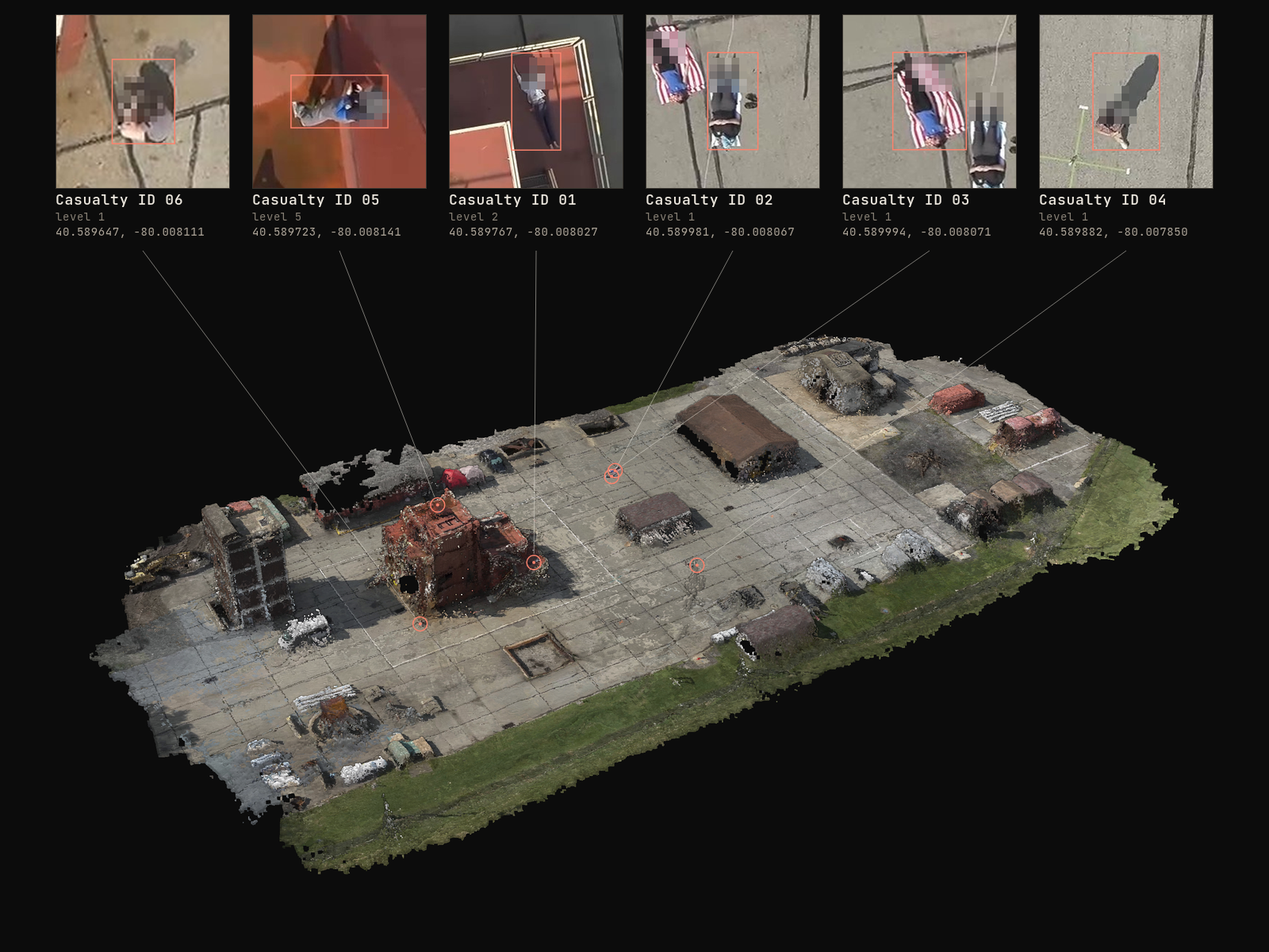
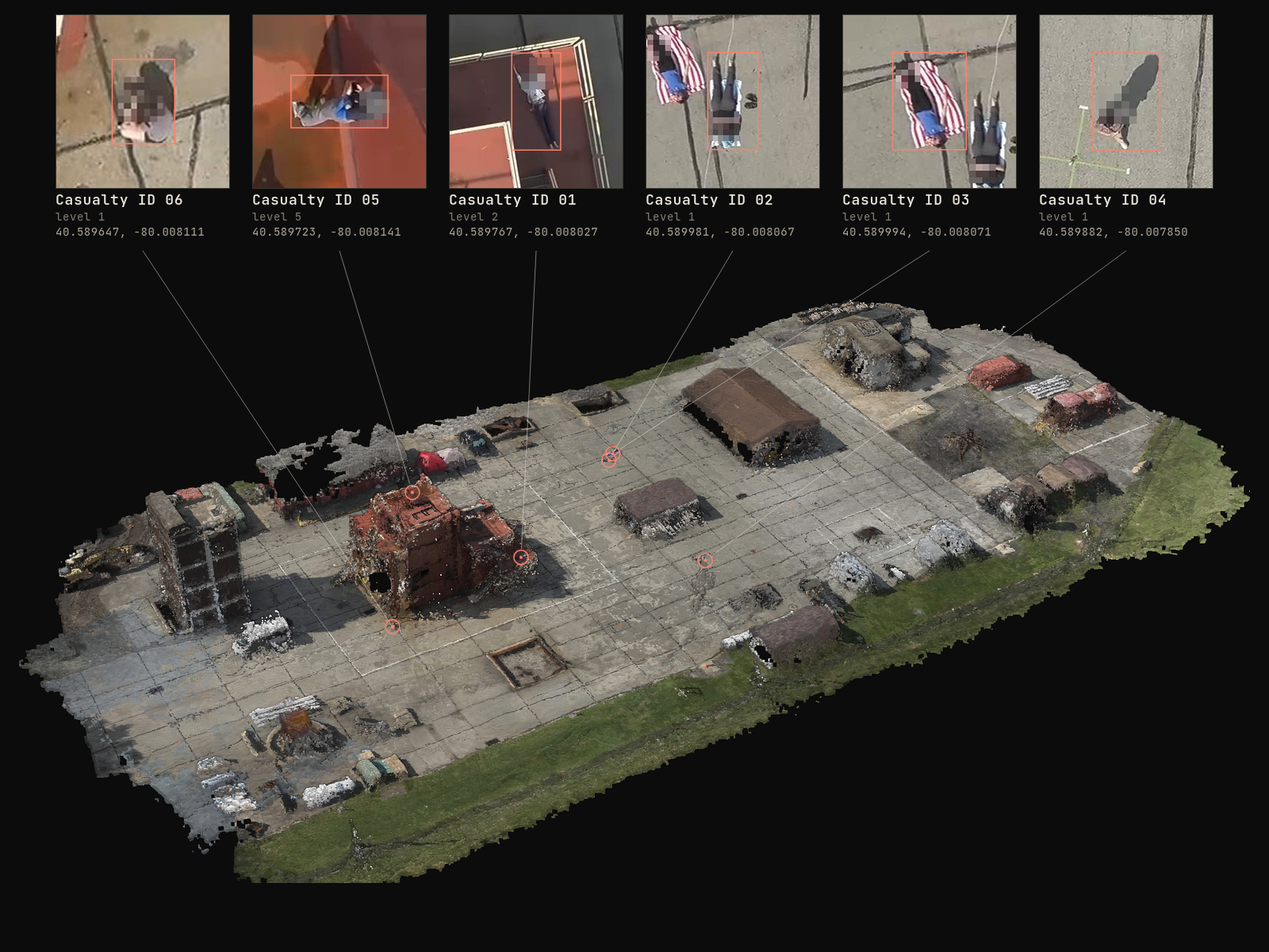
Rewrite the introduction, add the side menu, and add the night ACFA map
Rename Research/Work to Introduction/Projects, add a fixed side menu that marks
the current section, restyle section headings and captions, and update the
ACFA day map alongside a new night (IR) map.

diff --git a/index.html b/index.html
@@ -4,7 +4,7 @@
   <meta charset="utf-8">
   <meta name="viewport" content="width=device-width, initial-scale=1">
   <title>Joon Kwon</title>
-  <meta name="description" content="Joon Kwon — robotics and computer vision researcher at Carnegie Mellon University (AirLab). Dense correspondence and geometric foundation models across RGB, event, thermal, depth and LiDAR.">
+  <meta name="description" content="Joon Kwon, robotics and computer vision researcher at Carnegie Mellon University (AirLab). Dense correspondence and geometric foundation models across RGB, event, thermal, depth and LiDAR.">
   <meta property="og:title" content="Joon Kwon">
   <meta property="og:description" content="Dense correspondence and geometric foundation models that survive the sensor: event, thermal, depth and LiDAR.">
   <meta property="og:image" content="https://hjoonkwon.github.io/figures/tartanmatch-mosaic.jpg">
@@ -14,7 +14,7 @@
   <link rel="preconnect" href="https://fonts.googleapis.com">
   <link rel="preconnect" href="https://fonts.gstatic.com" crossorigin>
   <link href="https://fonts.googleapis.com/css2?family=JetBrains+Mono:wght@400;500&family=Newsreader:ital,opsz,wght@0,6..72,300..600;1,6..72,300..600&display=swap" rel="stylesheet">
-  <link rel="stylesheet" href="styles.css">
+  <link rel="stylesheet" href="styles.css?v=20260929">
 </head>
 <body>
 <div class="page">
@@ -22,14 +22,23 @@
   <header class="site-header">
     <a class="name" href="#research">Joon Kwon</a>
     <nav class="site-nav" aria-label="Sections">
-      <a href="#research"><span class="n">01</span> <span class="label">Research</span></a>
+      <a href="#research"><span class="n">01</span> <span class="label">Introduction</span></a>
       <a href="#papers"><span class="n">02</span> <span class="label">Papers</span></a>
-      <a href="#work"><span class="n">03</span> <span class="label">Work</span></a>
+      <a href="#work"><span class="n">03</span> <span class="label">Projects</span></a>
       <a href="#patents"><span class="n">04</span> <span class="label">Patents</span></a>
       <a href="#cv"><span class="n">05</span> <span class="label">CV</span></a>
       <button class="theme-toggle" id="theme-toggle" type="button">Dark</button>
     </nav>
   </header>
+
+  <nav class="side-nav" aria-label="Jump to section">
+    <a href="#research"><span class="n">01</span><span class="label">Introduction</span></a>
+    <a href="#papers"><span class="n">02</span><span class="label">Papers</span></a>
+    <a href="#work"><span class="n">03</span><span class="label">Projects</span></a>
+    <a href="#patents"><span class="n">04</span><span class="label">Patents</span></a>
+    <a href="#cv"><span class="n">05</span><span class="label">Experience</span></a>
+    <a href="#education"><span class="n">06</span><span class="label">Education</span></a>
+  </nav>
 
   <main>
 
@@ -37,9 +46,9 @@
     <div class="hero-text">
       <h1>Joon Kwon</h1>
       <div class="sub">M.S. Robotics, Carnegie Mellon University · AirLab.</div>
-      <p>I work on giving machines a sense of space that survives the sensor. My research extends dense correspondence and geometric foundation models past RGB — into event, thermal and LiDAR — so perception degrades gracefully where robots are actually needed: at night, in smoke, in the field.</p>
-      <p class="mut">Before CMU I was at Boeing AI, supervised by <a href="https://www.linkedin.com/in/junghyun-oh-6428293b/" target="_blank" rel="noopener">Jay Oh</a>, using CV/ML to improve airplane manufacturing quality at the factory; at Nearthlab, under CTO <a href="https://www.linkedin.com/in/yschung/" target="_blank" rel="noopener">Youngsuk Chung</a>, carrying drone-perception PoCs into shipped products; and at KAIST, advised by <a href="https://pure.kaist.ac.kr/en/persons/hyochoong-bang/" target="_blank" rel="noopener">Prof. Hyochoong Bang</a>, on reinforcement learning for spacecraft guidance.</p>
-      <p class="mut">For a Ph.D. I want to push toward spatial representations learned once and held across modality, time and viewpoint — and to keep validating them on real hardware, the way I have for the last five years.</p>
+      <p>Robots today can recognize almost anything they see, yet they rarely understand how the world will physically respond when they act in it. I want to close that gap, so that robots can take on physical work in the real world, not only in controlled demonstrations. For my Ph.D., I want to build multimodal representations that drive a robot's actions end to end. They should remain inspectable, yielding explicit, measurable estimates of not only the world's geometry but also its physical behavior, such as how heavy an object is or whether the ground will hold. They should also carry their own uncertainty: as the robot acts, the surprise between what it predicted and what it measures updates the representation and corrects the action. Disaster response is the hardest test of this idea: a robot must act correctly the first time, without the chance to probe first.</p>
+      <p class="mut">I am an M.S. Robotics student in CMU's AirLab, advised by <a href="https://www.ri.cmu.edu/ri-faculty/sebastian-scherer/" target="_blank" rel="noopener">Prof. Sebastian Scherer</a> and <a href="http://www.wangwenshan.com/" target="_blank" rel="noopener">Dr. Wenshan Wang</a>. Before CMU I was at Boeing AI, supervised by <a href="https://www.linkedin.com/in/junghyun-oh-6428293b/" target="_blank" rel="noopener">Jay Oh</a>, using CV/ML to improve airplane manufacturing quality at the factory, and at Nearthlab, under CTO <a href="https://www.linkedin.com/in/yschung/" target="_blank" rel="noopener">Youngsuk Chung</a>, carrying drone-perception PoCs into shipped products.</p>
+      <p class="mut">My recent work, TartanMatch, extends dense correspondence beyond RGB to thermal, event camera, and LiDAR modalities, so a robot can still see and localize when an RGB camera cannot. That need came directly from the <a href="https://www.darpa.mil/research/challenges/darpa-triage-challenge/finals" target="_blank" rel="noopener">DARPA Triage Challenge</a>, where I led the development of the monocular 3D mapping and target localization system that reports each casualty's GPS position to first responders from both EO and IR imagery, with under 50 cm error.</p>
       <div class="links">
         <a href="mailto:joonk2@andrew.cmu.edu">joonk2@andrew.cmu.edu</a>
         <a href="https://scholar.google.com/citations?user=zbJI0jcAAAAJ&amp;hl=en" target="_blank" rel="noopener">Scholar</a>
@@ -67,15 +76,19 @@
             <source src="figures/tartanmatch-mosaic.mp4" type="video/mp4">
             <img src="figures/tartanmatch-mosaic.jpg" alt="Six cross-sensor warps, each source landing aligned on its target view">
           </video>
-          <figcaption>Six cross-sensor pairs — thermal, event, depth and sparse depth onto RGB, night onto day — each source warped into the target view by predicted correspondence, one model for all.</figcaption>
+          <figcaption>Six cross-sensor pairs (thermal, event, depth and sparse depth onto RGB, night onto day), each source warped into the target view by predicted correspondence, one model for all.</figcaption>
         </figure>
         <div class="pub-body">
           <div class="pub-title">
             <h3>TartanMatch: Towards Universal Dense Correspondence Across Modalities</h3>
             <span class="pill">Submitted to IEEE RA-L</span>
           </div>
-          <div class="cite"><strong>H. Kwon</strong>*, J. Cai*, R. Li*, K. Bhandari, G. Hemkumar, P. Maheshwari, Y. Qiu, Y. Zhang, S. Scherer, W. Wang — submitted to IEEE Robotics and Automation Letters, 2026. *Equal contribution.</div>
-          <p>Carrying universal RGB flow models into any-pair matching — every same-modal and cross-modal combination across five modalities — trained on pixel-aligned simulated and real data curated for scale.</p>
+          <div class="cite"><strong>H. Kwon</strong>*, J. Cai*, R. Li*, K. Bhandari, G. Hemkumar, P. Maheshwari, Y. Qiu, Y. Zhang, S. Scherer, W. Wang. Submitted to IEEE Robotics and Automation Letters, 2026. *Equal contribution.</div>
+          <p>Robots combine several sensors to work across conditions, but most dense-correspondence methods handle only RGB-to-RGB or a few modality pairs, and training one model per pair scales poorly and forgoes transfer between pairs. TartanMatch is one model for all 25 ordered pairs among RGB, event, thermal, depth and projected LiDAR: an RGB-pretrained correspondence model adapted to every pair inside a single shared network with lightweight modality adaptation and a mix of real and synthetic data.</p>
+          <ul>
+            <li>Zero-shot on real-world benchmarks, it cuts endpoint error against the strongest baselines by 61.9% for cross-modal and 49.6% for same-modal matching.</li>
+            <li>Joint training across all pairs beats pair-specific training, most of all on the hard cross-modal pairs: one model, broad coverage, state-of-the-art accuracy.</li>
+          </ul>
         </div>
       </article>
 
@@ -91,8 +104,8 @@
           <div class="pub-title">
             <h3>Autonomous Guidance for Multi-revolution Low-thrust Orbit Transfer via Reinforcement Learning</h3>
           </div>
-          <div class="cite"><strong>H. Kwon</strong>, S. Oghim, H. Bang — 31st AAS/AIAA Space Flight Mechanics Meeting, 2021. AAS 21-315 · Advances in the Astronautical Sciences, vol. 176, pp. 783–798.</div>
-          <p>A Soft Actor-Critic agent chooses thrust direction across an entire multi-revolution transfer at constant thrust magnitude, meeting the terminal boundary condition while minimising flight time — with a gradient-form reward that makes the long-horizon problem trainable.</p>
+          <div class="cite"><strong>H. Kwon</strong>, S. Oghim, H. Bang. 31st AAS/AIAA Space Flight Mechanics Meeting, 2021. AAS 21-315 · Advances in the Astronautical Sciences, vol. 176, pp. 783–798.</div>
+          <p>A Soft Actor-Critic agent chooses thrust direction across an entire multi-revolution transfer at constant thrust magnitude, meeting the terminal boundary condition while minimising flight time, with a gradient-form reward that makes the long-horizon problem tractable.</p>
           <!-- PDF link pending a URL: <div class="textlink"><a href="">PDF</a></div> -->
         </div>
       </article>
@@ -103,20 +116,33 @@
   <div class="rule"></div>
 
   <section class="work" id="work">
-    <h2 class="section-label"><span class="n">03</span><span>Selected work</span></h2>
+    <h2 class="section-label"><span class="n">03</span><span>Projects</span></h2>
 
     <div class="work-feature">
       <div class="work-text">
-        <div class="eyebrow">2025 — present · DARPA Triage</div>
+        <div class="eyebrow">2025 – present · DARPA Triage</div>
         <h3>Target Re-ID &amp; Localization for Search and Rescue</h3>
-        <p>An end-to-end system that detects, localizes and re-identifies casualties for first responders, combining feedforward geometric transformers (VGGT, MapAnything, DepthAnything) with contrastive features that stay distinguishable across viewpoint and time.</p>
+        <p>An end-to-end system that detects, localizes and re-identifies casualties for first responders.</p>
+        <ul>
+          <li>Real-time 3D mapping and localization: monocular SLAM fused with GPS through pose-graph optimization.</li>
+          <li>Every casualty reported live in GPS coordinates (latitude, longitude, height), with the camera frame it was detected in.</li>
+          <li>Each reported location must fall within 2 m of the casualty's surveyed GPS position.</li>
+          <li>Duplicate reports of the same casualty are penalized heavily, so re-identification has to hold for static and moving targets alike.</li>
+        </ul>
       </div>
       <figure class="figure">
         <picture>
           <source srcset="figures/acfa-map.webp" type="image/webp">
           <img class="fig-map" src="figures/acfa-map.png" alt="Oblique 3D map of the ACFA training site built in real time from one flight, with six casualty positions marked and the detector's camera frame for each shown above" width="1600" height="1200">
         </picture>
-        <figcaption>One EO flight over the ACFA site, mapped in real time from the drone's video stream — 55 M points, 4 cm ground sampling. Six casualties reported live by the pipeline within 0.8 m of their surveyed positions, each with the detector's own frame at the moment of detection.</figcaption>
+        <figcaption>One EO flight over the Allegheny County Fire Academy (ACFA) training site near Pittsburgh, mapped in real time from the drone's video stream: 55 M points, 4 cm ground sampling. Six casualties reported live by the pipeline within 0.8 m of their surveyed positions, each with the detector's own frame at the moment of detection.</figcaption>
+      </figure>
+      <figure class="figure">
+        <picture>
+          <source srcset="figures/acfa-map-night.webp" type="image/webp">
+          <img class="fig-map" src="figures/acfa-map-night.png" alt="Oblique 3D thermal map of the ACFA site built at night from one infrared flight, with eleven casualty positions marked and the detector's thermal frame for each shown above" width="1600" height="1200">
+        </picture>
+        <figcaption>The same Fire Academy site at night, from one thermal flight with no visible light: 80 M points, 5 cm ground sampling, white-hot. Eleven casualties reported live by the pipeline, each with the thermal frame it was detected in.</figcaption>
       </figure>
     </div>
 
@@ -124,14 +150,21 @@
 
     <div class="work-row">
       <div class="work-text">
-        <div class="eyebrow">2021 — 2024 · Nearthlab</div>
-        <h3>Autonomous Wind-Turbine Inspection, End to End</h3>
-        <p>One product, owned across the whole pipeline: autonomous drone flight collecting blade imagery in physically harsh environments; label definition, annotation and data curation; defect detection and classification; and high-resolution stitching — deep feature matching fused with GPS/INS/LiDAR — to localize every defect in 3D. 7× faster inspection, and robots doing dangerous work so people don't have to. Related matching work placed 7th of 642 teams in the CVPR 2022 Image Matching Challenge.</p>
+        <div class="eyebrow">2021 – 2024 · Nearthlab</div>
+        <h3>Autonomous Wind-Turbine Inspection</h3>
+        <p>One product, owned across the whole pipeline, so that robots do the dangerous work instead of people.</p>
+        <ul>
+          <li>Autonomous drone flight collecting blade imagery in physically harsh environments.</li>
+          <li>Label definition, annotation and data curation; defect detection and classification.</li>
+          <li>Coverage check: every part of the blade must be photographed, verified before the drone leaves the turbine.</li>
+          <li>I developed the image-stitching pipeline for the textureless blades, combining GPS, camera geometry and learning-based feature matching, so every defect is localized in 3D on one stitched blade.</li>
+          <li>Inspection 7× faster than rope access, because the drone covers a blade in minutes and the stitched image is reviewed once instead of frame by frame. The matching work behind it placed 7th of 642 teams in the CVPR 2022 Image Matching Challenge and won a gold medal (10th) in the 2023 edition.</li>
+        </ul>
         <div class="textlink"><a href="https://www.youtube.com/watch?v=TfCYO0yT53o" target="_blank" rel="noopener">Watch the product →</a></div>
       </div>
       <figure class="figure">
         <img class="fig-defect" src="figures/blade-defect.png" alt="Surface defect on a wind-turbine blade captured during autonomous inspection" width="571" height="476">
-        <figcaption>A detected surface defect — classified, then localized in 3D on the stitched blade.</figcaption>
+        <figcaption>A detected surface defect, classified and then localized in 3D on the stitched blade.</figcaption>
       </figure>
     </div>
 
@@ -145,17 +178,6 @@
         <span>Mean reprojection error 0.09 m · GSD ≈ 1400 px/m</span>
       </figcaption>
     </figure>
-
-    <div class="work-rule"></div>
-
-    <div class="work-row">
-      <div class="work-text">
-        <div class="eyebrow">2024 — 2025 · Boeing</div>
-        <h3>Recognition at One Million Categories</h3>
-        <p>Metric and representation learning to classify over a million unique aerospace parts, planned for deployment to Boeing Distribution Services — alongside homography-based hole tracking on B-777X wings and anomaly detection for composites and sealant.</p>
-      </div>
-      <div class="placeholder" role="img" aria-label="Figure pending: part retrieval">FIGURE — part retrieval</div>
-    </div>
   </section>
 
   <div class="rule"></div>
@@ -193,19 +215,19 @@
     <div class="rows">
       <div class="row">
         <div class="dates">2024 – 2025</div>
-        <div><h3>Machine Learning Researcher · The Boeing Company</h3><div class="detail">1M-category parts recognition; homography-based wing hole and fastener tracking on B-777X; anomaly detection for composites and sealant at B-787 wing factories.</div></div>
+        <div><h3>Machine Learning Researcher · The Boeing Company</h3><div class="detail"><ul><li>Recognition of over a million aerospace part categories with metric and representation learning.</li><li>Homography-based wing hole and fastener tracking on the B-777X.</li><li>Anomaly detection for composites and sealant at the B-787 wing factories.</li></ul></div></div>
       </div>
       <div class="row">
         <div class="dates">2022 – 2024</div>
-        <div><h3>Machine Learning Engineer · Nearthlab</h3><div class="detail">Owned the inspection product from data to deployment: label definition, annotation and curation; defect detection and classification; 48 MP blade stitching for 3D defect localization; Kubernetes deployment. Also on-device rotated object detection for autonomous flight, and precision seeding from drone imagery to 10 cm.</div></div>
+        <div><h3>Machine Learning Engineer · Nearthlab</h3><div class="detail"><ul><li>Owned the inspection product from data to deployment: label definition, annotation and curation; defect detection and classification; Kubernetes deployment.</li><li>48 MP blade stitching for 3D defect localization.</li><li>On-device rotated object detection for autonomous flight.</li><li>Precision seeding from drone imagery to 10 cm.</li></ul></div></div>
       </div>
       <div class="row">
         <div class="dates">2021 – 2022</div>
-        <div><h3>Aerospace Engineer · Nearthlab</h3><div class="detail">The data-collection end of the same product — flight software for autonomous blade photography in C++; SITL system and 6-DoF simulator on Gazebo/ROS with second-order motor dynamics.</div></div>
+        <div><h3>Aerospace Engineer · Nearthlab</h3><div class="detail"><ul><li>Flight software for autonomous blade photography in C++, the data-collection end of the same product.</li><li>SITL system and 6-DoF simulator on Gazebo/ROS with second-order motor dynamics.</li></ul></div></div>
       </div>
       <div class="row">
         <div class="dates">2019 – 2021</div>
-        <div><h3>Research Assistant · ASCL, KAIST</h3><div class="detail">RL for low-thrust orbit transfer; RANDEV 3U CubeSat link budget and mission definition; GNSS/IMU EKF for wing-mounted radar pose.</div></div>
+        <div><h3>Research Assistant · ASCL, KAIST</h3><div class="detail"><ul><li>Reinforcement learning for low-thrust orbit transfer.</li><li>RANDEV 3U CubeSat link budget and mission definition.</li><li>GNSS/IMU EKF for the pose of a wing-mounted radar.</li></ul></div></div>
       </div>
     </div>
   </section>
@@ -217,11 +239,11 @@
     <div class="rows edu">
       <div class="row">
         <div class="dates">2025 – present</div>
-        <div><h3>M.S. Robotics — Carnegie Mellon University</h3><div class="detail">GPA 4.17/4.0. Advanced Computer Vision, Localization &amp; Mapping, Robot Learning.</div></div>
+        <div><h3>M.S. Robotics, Carnegie Mellon University</h3><div class="detail">GPA 4.17/4.0 · Coursework: Advanced Computer Vision, Localization &amp; Mapping, Robot Learning.</div></div>
       </div>
       <div class="row">
         <div class="dates">– 2021</div>
-        <div><h3>B.S. / M.S. Aerospace Engineering — KAIST</h3><div class="detail">GPA 3.9/4.3. Thesis: low-thrust spacecraft trajectory and guidance law design using reinforcement learning.</div></div>
+        <div><h3>B.S. / M.S. Aerospace Engineering, KAIST</h3><div class="detail">GPA 3.9/4.3. Thesis: low-thrust spacecraft trajectory and guidance law design using reinforcement learning.</div></div>
       </div>
     </div>
   </section>
@@ -229,11 +251,11 @@
   </main>
 
   <footer class="site-footer">
-    <div><span class="n">07</span>&nbsp;&nbsp;Notes — occasional writing on correspondence and spatial AI.<!-- Notes link pending a destination: <a href="">Read →</a> --></div>
+    <div><span class="n">07</span>&nbsp;&nbsp;Notes: occasional writing on correspondence and spatial AI.<!-- Notes link pending a destination: <a href="">Read →</a> --></div>
     <div>© 2026</div>
   </footer>
 
 </div>
-<script src="site.js"></script>
+<script src="site.js?v=20260929"></script>
 </body>
 </html>

diff --git a/styles.css b/styles.css
@@ -54,6 +54,31 @@ a:focus-visible, button:focus-visible { outline: 2px solid var(--acc); outline-o
 }
 .rule { height: 1px; background: var(--rule); margin: 0 var(--gutter); }
 
+/* Side menu: fixed on screen at every desktop width. Numbers only in the page gutter; full labels
+   once the viewport has a free left margin. Hidden on phones (the header menu remains). ------------ */
+nav.side-nav { display: none; }
+@media (min-width: 860px) {
+  nav.side-nav {
+    display: flex; flex-direction: column; gap: 10px;
+    position: fixed; left: 14px; top: 50%; transform: translateY(-50%);
+    z-index: 6; padding-left: 10px; border-left: 1px solid var(--rule);
+    font: 400 11px/1.4 var(--mono); letter-spacing: .08em; text-transform: uppercase;
+  }
+  nav.side-nav a { display: flex; gap: 10px; align-items: baseline; color: var(--fnt); text-decoration: none; padding: 2px 0; transition: color .2s; }
+  nav.side-nav a:hover, nav.side-nav a:focus-visible { color: var(--fg); }
+  nav.side-nav a.current { color: var(--fg); }
+  nav.side-nav a.current .n { color: var(--acc); }
+  nav.side-nav .n { min-width: 1.6em; }
+  nav.side-nav .label { display: none; }
+}
+@media (min-width: 1440px) {
+  nav.side-nav { left: calc((100vw - 1080px) / 2 - 168px); padding-left: 12px; }
+  nav.side-nav .label { display: inline; }
+}
+.pub ul { margin: 6px 0 0; padding-left: 1.15em; font-size: 16px; line-height: 1.6; color: var(--mut); text-wrap: pretty; }
+.pub li { margin: 3px 0; }
+.pub li::marker { color: var(--fnt); }
+
 /* Header ---------------------------------------------------------------- */
 .site-header {
   position: sticky; top: 0; z-index: 5;
@@ -100,17 +125,18 @@ a:focus-visible, button:focus-visible { outline: 2px solid var(--acc); outline-o
 .hero-photo .loc { font: 400 11px/1.5 var(--mono); color: var(--fnt); }
 
 /* Labeled sections ------------------------------------------------------ */
-.section { padding: 60px var(--gutter); display: grid; grid-template-columns: 180px 1fr; gap: 40px; align-items: start; }
+.section { padding: 56px var(--gutter) 60px; display: grid; grid-template-columns: 1fr; gap: 28px; align-items: start; }
 .section-label {
-  display: flex; gap: 14px; margin: 0;
-  font: 500 11px/1 var(--mono); letter-spacing: .16em; text-transform: uppercase; color: var(--fnt);
-  white-space: nowrap;
+  display: flex; gap: 16px; align-items: baseline; margin: 0 0 8px;
+  font: 400 30px/1.15 var(--serif); letter-spacing: -.01em; color: var(--fg);
+  white-space: nowrap; padding-bottom: 14px; border-bottom: 1px solid var(--rule);
 }
+.section-label .n { font: 500 12px/1 var(--mono); letter-spacing: .14em; color: var(--acc); }
 
 /* Figures --------------------------------------------------------------- */
 .figure { display: flex; flex-direction: column; gap: 7px; margin: 0; }
 .figure img, .figure video { width: 100%; height: auto; display: block; border: 1px solid var(--rule); }
-.figure figcaption { font: 400 10px/1.5 var(--mono); letter-spacing: .06em; color: var(--fnt); }
+.figure figcaption { font: 400 13px/1.55 var(--serif); color: var(--fg); text-wrap: pretty; }
 .fig-mosaic { aspect-ratio: 2 / 1; object-fit: cover; background: #fff; }
 .fig-orbit { aspect-ratio: 7 / 5; object-fit: contain; background: #fff; }
 .fig-defect { aspect-ratio: 4 / 3; object-fit: cover; }
@@ -151,6 +177,11 @@ a:focus-visible, button:focus-visible { outline: 2px solid var(--acc); outline-o
 .work-text h3 { margin: 0; font-size: 29px; line-height: 1.18; letter-spacing: -.015em; font-weight: 400; }
 .work-text p { margin: 0; font-size: 17px; line-height: 1.62; color: var(--mut); text-wrap: pretty; }
 .work-rule { height: 1px; background: var(--rule); }
+
+/* lists inside descriptions: bullets where an entry enumerates several things */
+.work-text ul, .row .detail ul { margin: 0; padding-left: 1.15em; font-size: 17px; line-height: 1.55; color: var(--mut); text-wrap: pretty; }
+.work-text li, .row .detail li { margin: 4px 0; }
+.work-text li::marker, .row .detail li::marker { color: var(--fnt); }
 .work-feature { display: flex; flex-direction: column; gap: 28px; }
 .work-feature .work-text { max-width: 40em; }
 .fig-map { aspect-ratio: 4 / 3; object-fit: cover; background: #0c0c0c; }

diff --git a/site.js b/site.js
@@ -20,6 +20,23 @@
   prefersDark.addEventListener('change', refresh);
   refresh();
 
+  // side menu: mark the section that currently occupies the top of the viewport
+  var links = Array.prototype.slice.call(document.querySelectorAll('.side-nav a'));
+  var sections = links.map(function (a) { return document.querySelector(a.getAttribute('href')); }).filter(Boolean);
+  if (links.length && 'IntersectionObserver' in window) {
+    var visible = {};
+    var mark = function () {
+      var best = null;
+      sections.forEach(function (sec) { if (visible[sec.id] && (best === null || sec.offsetTop < best.offsetTop || visible[sec.id] > visible[best.id] + 0.25)) best = sec; });
+      links.forEach(function (a) { a.classList.toggle('current', best !== null && a.getAttribute('href') === '#' + best.id); });
+    };
+    var io = new IntersectionObserver(function (entries) {
+      entries.forEach(function (e) { visible[e.target.id] = e.isIntersecting ? e.intersectionRatio : 0; });
+      mark();
+    }, { rootMargin: '-64px 0px -55% 0px', threshold: [0, 0.1, 0.25, 0.5] });
+    sections.forEach(function (sec) { io.observe(sec); });
+  }
+
   if (window.matchMedia('(prefers-reduced-motion: reduce)').matches) {
     document.querySelectorAll('video[autoplay]').forEach(function (v) {
       v.removeAttribute('autoplay');
